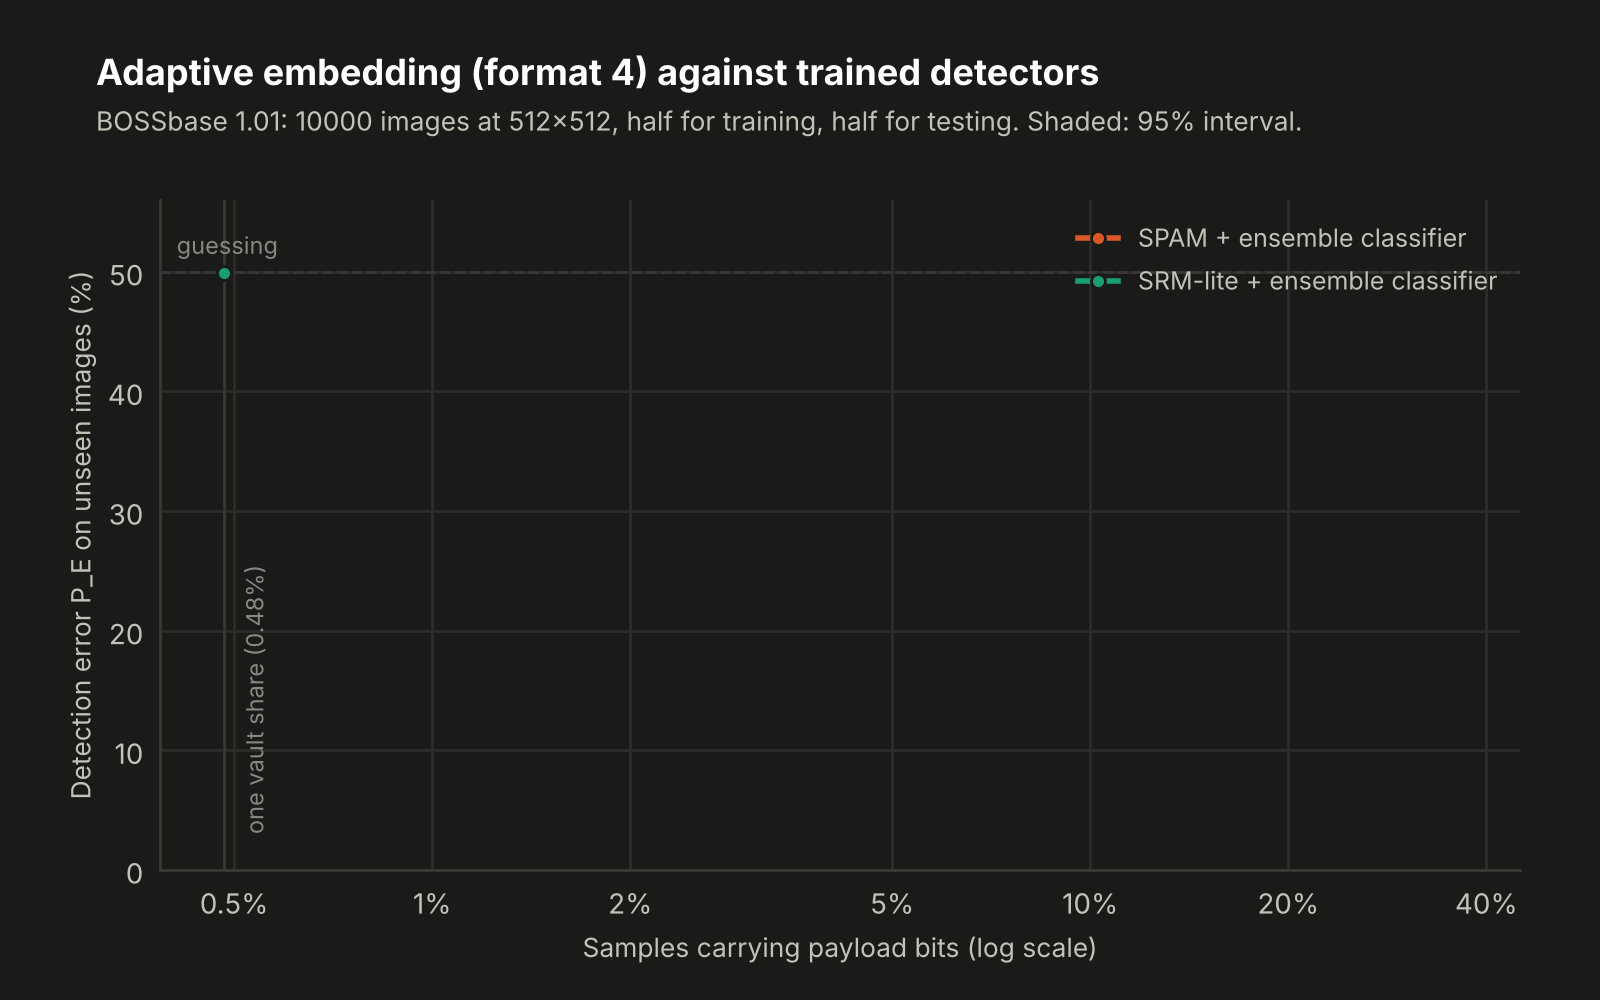
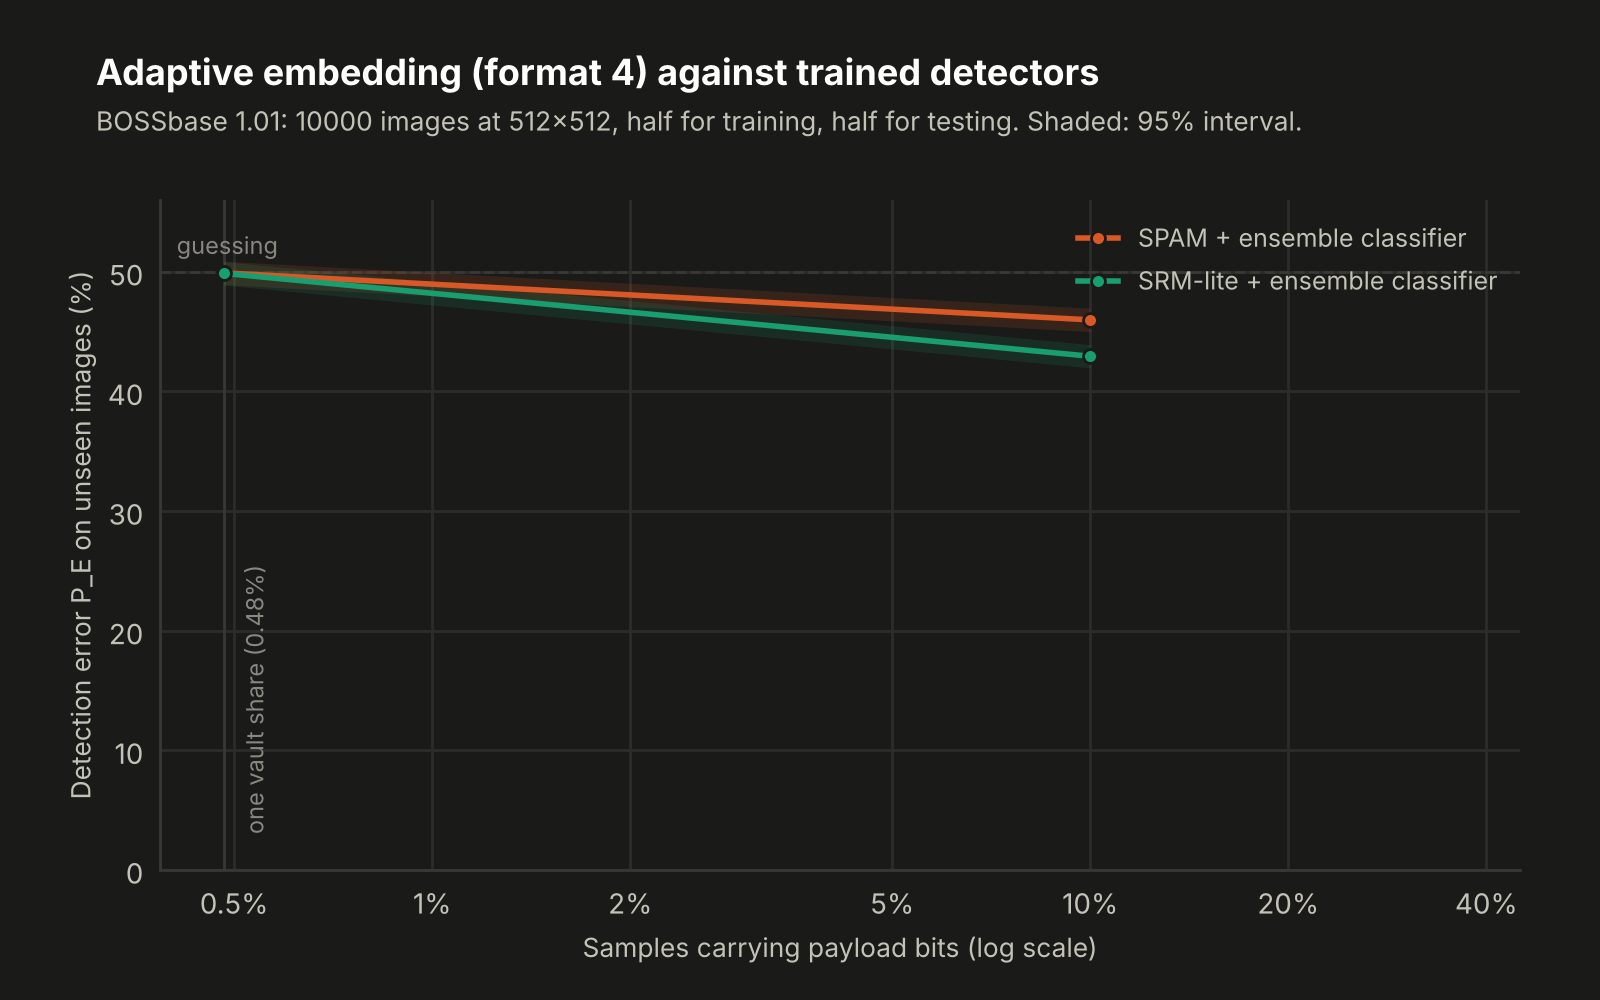
docs(05): format 4 against trained detectors (§5.5.6)
One share on BOSSbase 512x512: SPAM 49.9%, SRM-lite 49.9% (AUC 0.50),
against 45.0% / 42.5% for format 3. Positive control at 10%: 46.0% /
42.9%, where format 3 gives 19.0% / 12.1%. SP-09, §5.6, 06 §6.10,
READMEs, docs/07 and the changelog follow the measurement; a comparison
chart of the two formats replaces the format-3 chart in the READMEs.

Changed region(s): [[0.125, 0.248, 0.6875, 0.372]]

diff --git a/shardpix/analysis/ml_benchmark.py b/shardpix/analysis/ml_benchmark.py
@@ -417,6 +417,83 @@ def plot(results: dict, out: Path, mode: str) -> Path:
     return path
 
 
+def plot_comparison(legacy: dict, adaptive: dict, out: Path, mode: str) -> Path:
+    """Format 3 against format 4: the same detectors, the same images."""
+    import matplotlib.pyplot as plt
+    from matplotlib.ticker import NullLocator
+
+    theme = THEMES[mode]
+    fig, ax = plt.subplots(figsize=(8, 5))
+    fig.subplots_adjust(left=0.1, right=0.95, top=0.8, bottom=0.13)
+    _style_axes(ax, theme)
+    ax.set_xscale("log")
+    share = adaptive["share_rate"]
+    ax.axhline(50, color=theme["axis"], linewidth=1, linestyle="--", zorder=1)
+    ax.axvline(share * 100, color=theme["axis"], linewidth=1, zorder=1)
+    ax.text(
+        share * 100 * 1.06,
+        14,
+        f"one vault share ({share:.2%})",
+        color=theme["muted"],
+        fontsize=8.5,
+        rotation=90,
+        va="bottom",
+    )
+    series = (
+        (legacy, "srm_lite", "format 3 (matching), SRM-lite", theme["series"]["replacement"], "-"),
+        (legacy, "spam", "format 3 (matching), SPAM", theme["series"]["replacement"], ":"),
+        (adaptive, "srm_lite", "format 4 (adaptive), SRM-lite", theme["series"]["shardpix"], "-"),
+        (adaptive, "spam", "format 4 (adaptive), SPAM", theme["series"]["shardpix"], ":"),
+    )
+    for results, key, label, colour, style in series:
+        rows = results["detectors"].get(key)
+        if not rows:
+            continue
+        rates = np.array([r["rate"] for r in rows]) * 100
+        p_e = np.array([r["p_e"] for r in rows]) * 100
+        low = np.array([r["p_e_low"] for r in rows]) * 100
+        high = np.array([r["p_e_high"] for r in rows]) * 100
+        ax.fill_between(rates, low, high, color=colour, alpha=0.12, linewidth=0, zorder=2)
+        ax.plot(
+            rates,
+            p_e,
+            color=colour,
+            linestyle=style,
+            linewidth=2,
+            marker="o",
+            markersize=5,
+            markeredgecolor=theme["surface"],
+            label=label,
+            zorder=3,
+        )
+    ax.set_xlim(0.08, 45)
+    ax.set_ylim(0, 56)
+    ticks = [0.1, 0.2, 0.5, 1, 2, 5, 10, 20, 40]
+    ax.set_xticks(ticks)
+    ax.set_xticklabels([f"{t:g}%" for t in ticks])
+    ax.xaxis.set_minor_locator(NullLocator())
+    ax.text(0.085, 51.5, "guessing", color=theme["muted"], fontsize=8.5)
+    ax.set_xlabel(
+        "Samples carrying payload bits (log scale)", color=theme["secondary"], fontsize=9.5
+    )
+    ax.set_ylabel(
+        "Detection error P_E on unseen images (%)", color=theme["secondary"], fontsize=9.5
+    )
+    path = out / f"ml-format-comparison-{adaptive['size']}-{mode}.png"
+    _finish(
+        fig,
+        ax,
+        theme,
+        "Adaptive embedding: a share at chance, 10% as visible as format 3 at 0.5%",
+        f"{adaptive['dataset']}: {adaptive['images']} images at {adaptive['size']}x"
+        f"{adaptive['size']}, half for training, half for testing. Shaded: 95% interval.",
+        path,
+        legend_at="lower left",
+    )
+    plt.close(fig)
+    return path
+
+
 def markdown_table(results: dict) -> str:
     detectors = [k for k in ("spam", "srm_lite", "cnn") if results["detectors"].get(k)]
     rates = sorted({r["rate"] for k in detectors for r in results["detectors"][k]})
@@ -534,8 +611,12 @@ def main(argv: list[str] | None = None) -> int:
 
     matplotlib.use("Agg")
     args.out.mkdir(parents=True, exist_ok=True)
+    legacy_path = args.data.with_name(f"ml_benchmark_{args.size}.json")
     for mode in THEMES:
         print(f"  wrote {plot(results, args.out, mode)}")
+        if args.strategy == "adaptive" and legacy_path.exists():
+            legacy = json.loads(legacy_path.read_text("utf-8"))
+            print(f"  wrote {plot_comparison(legacy, results, args.out, mode)}")
     print()
     print(markdown_table(results))
     return 0

diff --git a/docs/05-security-analysis.md b/docs/05-security-analysis.md
@@ -64,14 +64,15 @@ way to understand how such tools are built.
 | SP-06 | A fabricated set of shares is never accepted as the vault key | ADV-4 | Clusters are disjoint; each candidate key is tested against the vault's GCM tag, which a forger cannot satisfy without the real key. | `TestForgedSets` |
 | SP-07 | Passphrase guessing is expensive and per image | ADV-2 | scrypt N = 2^17, r = 8 (≈ 128 MiB, ≈ 0.4 s per guess, OWASP's first recommendation), salted per image, so no table can be precomputed for an image size and no guess carries over to another image. | `test_production_scrypt_cost`, `test_same_passphrase_scatters_differently_in_every_image` |
 | SP-08 | One error message for every extraction failure | ADV-3, ADV-4 | Wrong passphrase, clean image and modified image all raise the same `PayloadNotFoundError`, so the tool is no oracle for "is there something here?". | `TestAuthentication` |
-| SP-09 | Classical steganalysis does not detect a vault share; trained steganalysis detects it only weakly, and not at all in large enough covers | ADV-3 | LSB matching (ADR-03), no forced moves at 0/255 (ADR-06), and a fixed payload of 1,264 bits whose detectability falls with the square root of the cover size. Measured in §5.5. | Benchmarks (§5.5.1–5.5.5) |
+| SP-09 | Neither classical nor trained steganalysis (SPAM, SRM-lite) detects a vault share in format 4 | ADV-3 | Adaptive ±1 embedding with syndrome-trellis codes and HiLL costs (ADR-12), no forced moves at 0/255 (ADR-06), and a fixed payload of 1,264 bits. At chance on BOSSbase 512x512 (§5.5.6); format 3 was weakly detectable (§5.5.5). | Benchmarks (§5.5.1–5.5.6) |
 | SP-10 | Restoring a file cannot escape the output directory or abuse the terminal | ADV-4 | `safe_filename` keeps the base name, strips control and format characters and replaces reserved names. | `TestRestoredNames`, `TestSafeFilename` |
 | SP-11 | No input is ever overwritten | User error | Case-folded path identity checks in the CLI and in `seal`. | `TestOutputCollisions`, `test_combine_never_overwrites_its_input` |
 
-What shardpix deliberately does **not** claim: that a share in a small cover
-is invisible to trained steganalysis — in a 512x512 greyscale photo a
-detector trained under ideal conditions beats chance (§5.5.5) — or that the
-vault file itself is inconspicuous — it is recognisable ciphertext.
+What shardpix deliberately does **not** claim: that a share is invisible to
+*every* trained detector — format 4 is at chance against SPAM and SRM-lite
+(§5.5.6), but stronger detectors were not run — that format 3 shares are
+invisible in small covers (they are not, §5.5.5), or that the vault file
+itself is inconspicuous — it is recognisable ciphertext.
 
 ## 5.4 Cryptographic parameters
 
@@ -303,7 +304,8 @@ What it means for a real cover: a share in a 512x512 greyscale image has
 M/√N ≈ 2.5; in a 1-megapixel colour photo (3 million samples) ≈ 0.7; in a
 2-megapixel colour photo ≈ 0.5, the lowest point measured; in a
 12-megapixel phone photo ≈ 0.2, more than twice below it. **Use colour photos of at least
-2 megapixels.** That threshold is an extrapolation along the square-root law
+2 megapixels** — the advice was derived for format 3; format 4 is already
+at chance at 512x512 (§5.5.6), and more samples remain the safer choice. That threshold is an extrapolation along the square-root law
 from greyscale 512x512 images, not a measurement on large photos, which
 BOSSbase does not contain.
 
@@ -318,22 +320,74 @@ python -m shardpix.analysis.ml_benchmark BOSSbase_1.01/ --size 256 --rates 0.4,0
 python -m shardpix.analysis.ml_benchmark BOSSbase_1.01/ --size 256 --rates 0.4,0.2,0.1,0.05,0.01 --detectors cnn --fine-epochs 5 --checkpoint cnn-256
 ```
 
+### 5.5.6 Adaptive embedding (format 4)
+
+§5.5.5 found that format 3 is weakly visible to trained detectors in small
+covers. Format 4 (01 ADR-12) writes the same payload as a syndrome-trellis
+code whose changes follow HiLL costs: about a third as many changes (208
+against 633 per share in BOSSbase 512x512, 07 §7.3), all in texture. The
+same experiment, the same 10,000 BOSSbase images, the same split and the
+same detectors were run against it; the stego images are produced by
+`stego.embed` itself (`ml_benchmark --strategy adaptive`), so what is
+measured is exactly what the tool writes.
+
+<picture>
+  <source media="(prefers-color-scheme: dark)" srcset="../assets/ml-format-comparison-512-dark.png">
+  <img alt="Detection error against embedding rate for format 3 and format 4 on BOSSbase 512x512: format 4 is at 50% at one share and at 43-46% at 10%, where format 3 is at 12-19%" src="../assets/ml-format-comparison-512-light.png">
+</picture>
+
+Raw numbers in [data/ml_benchmark_512_adaptive.json](data/ml_benchmark_512_adaptive.json).
+
+| Samples carrying bits | Format 3, SPAM | Format 3, SRM-lite | **Format 4, SPAM** | **Format 4, SRM-lite** |
+| ---: | ---: | ---: | ---: | ---: |
+| **0.48% (one share)** | 45.0% | 42.5% | **49.9%** [48.9, 50.9], AUC 0.50 | **49.9%** [48.9, 50.8], AUC 0.50 |
+| 10% | 19.0% | 12.1% | **46.0%** [45.0, 47.0], AUC 0.57 | **42.9%** [42.0, 43.9], AUC 0.61 |
+
+What this shows:
+
+1. **One share in format 4 is at chance.** Both detectors, trained at the
+   exact rate on images from the same source as the test images, are wrong
+   49.9% of the time; the 95% intervals contain 50% and the AUC is 0.50.
+   Format 3 at the same rate gave 42.5%.
+2. **The measurement is not blind.** At 10% the same detectors see format 4
+   (SRM-lite 42.9%, interval well below 50%), so the experiment can detect
+   it when there is something to detect. A null result with no positive
+   control would have proved nothing.
+3. **The gain is large.** Format 4 at 10% of the samples is about as
+   visible as format 3 at one share (42.9% against 42.5%), with twenty
+   times the payload. In square-root-law terms the same cover now carries
+   a far larger payload at the same risk; for a fixed share it moves the
+   operating point well inside the region where these detectors fail.
+4. **What it does not show.** Stronger detectors (the full SRM with its
+   min-max residuals, SRNet trained on a GPU) are designed for adaptive
+   embedding and could still find something at one share. The intermediate
+   rates (5%, 2%, 1%) are being measured with the same setup and will be
+   added to the data file; a first run, interrupted before it was saved,
+   gave 49.7% (SPAM) and 50.3% (SRM-lite) at 1%.
+
+Reproduce (about 1.5 hours per rate on four CPU cores, the
+syndrome-trellis coder being pure numpy):
+
+```bash
+python -m shardpix.analysis.ml_benchmark BOSSbase_1.01/ --size 512 --strategy adaptive --detectors spam,srm_lite --rates 0.00482177734375
+python -m shardpix.analysis.ml_benchmark BOSSbase_1.01/ --size 512 --strategy adaptive --detectors spam,srm_lite --rates 0.1,0.05,0.02,0.01
+```
+
+
 ## 5.6 Known limitations
 
 **Not independently audited.** See §5.1 and 06.
 
-**Trained steganalysis sees shares in small covers.** Measured in §5.5.5:
-in a 512x512 greyscale photo a share brings a rich-model detector to 42.5%
-error, against 50% for guessing; at 256x256 to 29.6%, and a CNN to 31.6%.
-In colour photos of 2 megapixels or more the share falls to or below the
-lowest rate measured, where the detectors were at or within 1.5 points of
-chance — but that is an
-extrapolation along the square-root law, not a measurement on large photos.
-The detectors used are SPAM, a 3,125-feature subset of the spatial rich
-model and a small CNN trained on a CPU; the full SRM (34,671 features) and
-larger networks such as SRNet, trained on a GPU, would likely do better.
-Shares are not adaptive: they do not prefer textured regions as HUGO, WOW or
-S-UNIWARD do, which would lower detectability further at the same payload.
+**Trained steganalysis: measured against two detectors, not all.** A
+format-4 share on BOSSbase 512x512 is at chance for SPAM and SRM-lite
+(§5.5.6); format 3 was weakly visible (42.5% for SRM-lite, §5.5.5) and is
+still what `--method matching` writes. The detectors used are SPAM, a
+3,125-feature subset of the spatial rich model and, for format 3, a small
+CNN trained on a CPU. The full SRM (34,671 features, including the min-max
+residuals designed against adaptive embedding) and larger networks such as
+SRNet, trained on a GPU, would likely do better and were not run. All
+measurements use one image source (BOSSbase); in the field, cover-source
+mismatch works against the detector.
 
 **JPEG covers.** Pixels decoded from a JPEG obey the block quantisation of
 the original file. Changing any of them by ±1 breaks that structure, which

diff --git a/README.it.md b/README.it.md
@@ -141,12 +141,18 @@ condizioni più favorevoli per chi attacca, sbaglia nel 42,5% dei casi su una
 quota nascosta in una foto in scala di grigi 512x512, contro il 50% di chi
 tira a caso: un segnale debole, ma non nullo. Il segnale cala con la radice
 quadrata della dimensione dell'immagine: al tasso più basso misurato i
-rilevatori erano entro 1,5 punti dal caso. **Usa foto a colori di almeno 2
-megapixel**, che portano una quota a quel punto o sotto.
+rilevatori erano entro 1,5 punti dal caso.
+
+Questo valeva per il formato 3. **Il formato 4, con inserimento adattivo, è
+al livello del caso**: gli stessi rilevatori sulle stesse 10.000 immagini
+sbagliano il 49,9% delle volte su una quota, e iniziano a vedere qualcosa
+solo al 10% dei campioni, dove il formato 3 veniva scoperto nove volte su
+dieci. Le foto a colori di almeno 2 megapixel restano la scelta più
+prudente.
 
 <picture>
-  <source media="(prefers-color-scheme: dark)" srcset="assets/ml-detection-512-dark.png">
-  <img alt="Errore dei rilevatori addestrati SPAM e SRM-lite rispetto al tasso di inserimento: 4-8% al 40%, 42-45% con una quota in una foto 512x512, 48-49% allo 0,1%" src="assets/ml-detection-512-light.png">
+  <source media="(prefers-color-scheme: dark)" srcset="assets/ml-format-comparison-512-dark.png">
+  <img alt="Errore di rilevamento rispetto al tasso di inserimento per il formato 3 e il formato 4: il formato 4 è al 50% con una quota e al 43-46% al 10%, dove il formato 3 è al 12-19%" src="assets/ml-format-comparison-512-light.png">
 </picture>
 
 I risultati completi, l'attacco del chi-quadro, i rilevatori addestrati e i

diff --git a/README.md b/README.md
@@ -135,12 +135,17 @@ photographs, a rich-model classifier trained under ideal conditions for the
 attacker brings a share in a 512x512 greyscale photo to 42.5% detection
 error, against 50% for guessing: weak, but not zero. The signal shrinks with
 the square root of the cover size: at the lowest rate measured the
-detectors were within 1.5 points of chance. **Use colour photos of at least
-2 megapixels**, which puts a share at or below that point.
+detectors were within 1.5 points of chance.
+
+That was format 3. **Format 4, adaptive embedding, is at chance**: the same
+detectors on the same 10,000 images are wrong 49.9% of the time on a share,
+and only start to see the embedding at 10% of the samples, where format 3
+was caught nine times out of ten. Colour photos of 2 megapixels or more
+remain the safer choice.
 
 <picture>
-  <source media="(prefers-color-scheme: dark)" srcset="assets/ml-detection-512-dark.png">
-  <img alt="Detection error of trained SPAM and SRM-lite detectors against embedding rate: 4-8% at 40% embedding, 42-45% at one vault share in a 512x512 photo, 48-49% at 0.1%" src="assets/ml-detection-512-light.png">
+  <source media="(prefers-color-scheme: dark)" srcset="assets/ml-format-comparison-512-dark.png">
+  <img alt="Detection error against embedding rate for format 3 and format 4: format 4 is at 50% at one share and at 43-46% at 10%, where format 3 is at 12-19%" src="assets/ml-format-comparison-512-light.png">
 </picture>
 
 The full results, the chi-square attack, the trained detectors and the known

diff --git a/docs_it/07-covers-and-formats.md b/docs_it/07-covers-and-formats.md
@@ -50,7 +50,7 @@ pulita.
 
 | Metodo | Formato | Come viene scritta una quota | Campioni modificati da una quota (BOSSbase 512x512, media di 60) | Contro rilevatori addestrati (05 §5.5) | Uso |
 | --- | --- | --- | ---: | --- | --- |
-| `adaptive` (predefinito) | v4 | Modifiche di ±1 collocate da un codice a traliccio di sindrome dove il costo HiLL è più basso: nelle texture e nel rumore, lontano dalle zone uniformi | 208 | Vedi 05 §5.5.6 | Sempre, a meno che non serva il formato 3 |
+| `adaptive` (predefinito) | v4 | Modifiche di ±1 collocate da un codice a traliccio di sindrome dove il costo HiLL è più basso: nelle texture e nel rumore, lontano dalle zone uniformi | 208 | Al livello del caso: 49,9% per SPAM e SRM-lite a 512x512 (05 §5.5.6) | Sempre, a meno che non serva il formato 3 |
 | `matching` | v3 | Modifiche di ±1 in posizioni pseudo-casuali derivate dalla chiave, un bit per campione | 633 | SRM-lite: errore del 42,5% a 512x512 | Compatibilità con shardpix 1.1 |
 | `replacement` | v3 | LSB sovrascritto in posizioni derivate dalla chiave | circa 630 | Violato da RS e chi-quadro | Solo per dimostrazioni |
 

diff --git a/docs/07-covers-and-formats.md b/docs/07-covers-and-formats.md
@@ -46,7 +46,7 @@ shardpix treats them like JPEG: decoded pixels are not a clean cover.
 
 | Method | Format | How a share is written | Samples changed by one share (BOSSbase 512x512, mean of 60) | Against trained detectors (05 §5.5) | Use |
 | --- | --- | --- | ---: | --- | --- |
-| `adaptive` (default) | v4 | ±1 changes placed by a syndrome-trellis code where the HiLL cost is lowest: in texture and noise, away from smooth areas | 208 | See 05 §5.5.6 | Always, unless you need format 3 |
+| `adaptive` (default) | v4 | ±1 changes placed by a syndrome-trellis code where the HiLL cost is lowest: in texture and noise, away from smooth areas | 208 | At chance: 49.9% for SPAM and SRM-lite at 512x512 (05 §5.5.6) | Always, unless you need format 3 |
 | `matching` | v3 | ±1 changes at keyed pseudo-random positions, one bit per sample | 633 | SRM-lite 42.5% error at 512x512 | Compatibility with shardpix 1.1 |
 | `replacement` | v3 | LSB overwritten at keyed positions | about 630 | Broken by RS and chi-square | Demonstrations only |
 

diff --git a/docs_it/06-security-review.md b/docs_it/06-security-review.md
@@ -337,9 +337,9 @@ Esempi di mutanti che sopravvivono perché equivalenti:
 ## 6.10 Rischi accettati
 
 Oltre a SR-06–SR-08, restano accettate le limitazioni elencate in 05 §5.6: la
-debole rilevabilità delle quote in immagini di copertura piccole da parte della
-steganalisi addestrata (misurata in 05 §5.5.5; mitigata usando immagini di
-copertura a colori di almeno 2 megapixel), le immagini di copertura JPEG, la
+steganalisi addestrata misurata solo contro SPAM e SRM-lite (formato 4 al
+livello del caso, 05 §5.5.6; formato 3 debolmente rilevabile in immagini
+piccole, §5.5.5), le immagini di copertura JPEG, la
 disponibilità delle immagini di copertura, la ricompressione durante il
 trasporto, i metadati visibili del vault, una sola passphrase per vault,
 l'aritmetica non a tempo costante e la memoria che non può essere cancellata, e

diff --git a/docs/06-security-review.md b/docs/06-security-review.md
@@ -320,9 +320,8 @@ Examples of mutants that survive because they are equivalent:
 ## 6.10 Accepted risks
 
 Beyond SR-06 to SR-08, the limitations listed in 05 §5.6 remain accepted:
-weak detectability of shares in small covers by trained steganalysis
-(measured in 05 §5.5.5; mitigated by using colour covers of at least
-2 megapixels), JPEG covers, cover availability,
+trained steganalysis measured against SPAM and SRM-lite only (format 4 at
+chance, 05 §5.5.6; format 3 weakly detectable in small covers, §5.5.5), JPEG covers, cover availability,
 transport re-compression, visible vault metadata, one passphrase per vault,
 non-constant-time arithmetic and memory that cannot be wiped, and the search
 budget as a denial-of-service limit.

diff --git a/CHANGELOG.md b/CHANGELOG.md
@@ -13,7 +13,10 @@ All notable changes to this project are documented here. The format follows
   sealed body are written as syndrome-trellis codes (Filler, Judas and
   Fridrich) whose changes follow HiLL costs: one share changes about a third
   as many samples as before (208 against 633 on BOSSbase 512x512), in
-  texture rather than in smooth areas. Format 3 images are still read;
+  texture rather than in smooth areas. Against SPAM and SRM-lite on 10,000
+  BOSSbase images a share is at chance (49.9%, against 42.5% for format 3),
+  and the detectors only start to see it at 10% of the samples
+  (docs/05 §5.5.6). Format 3 images are still read;
   `--method matching` still writes format 3. shardpix 1.1 cannot read
   format 4.
 
